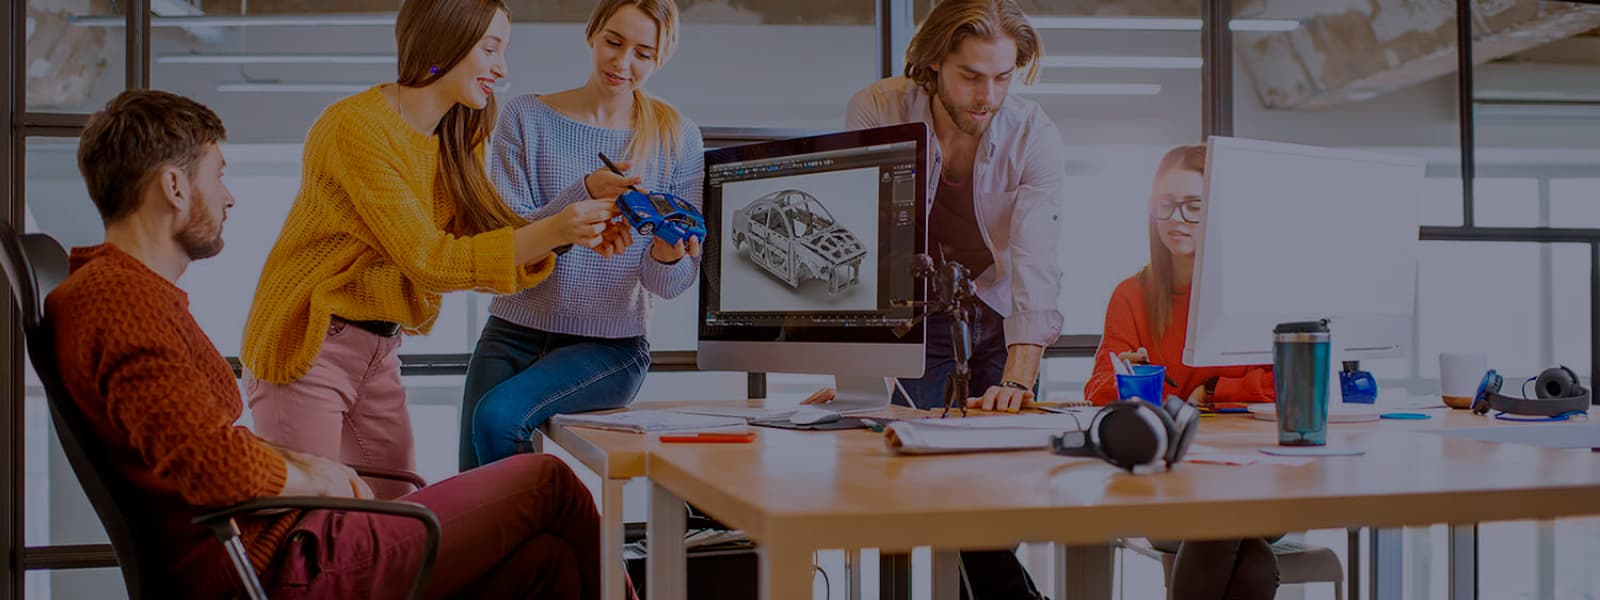
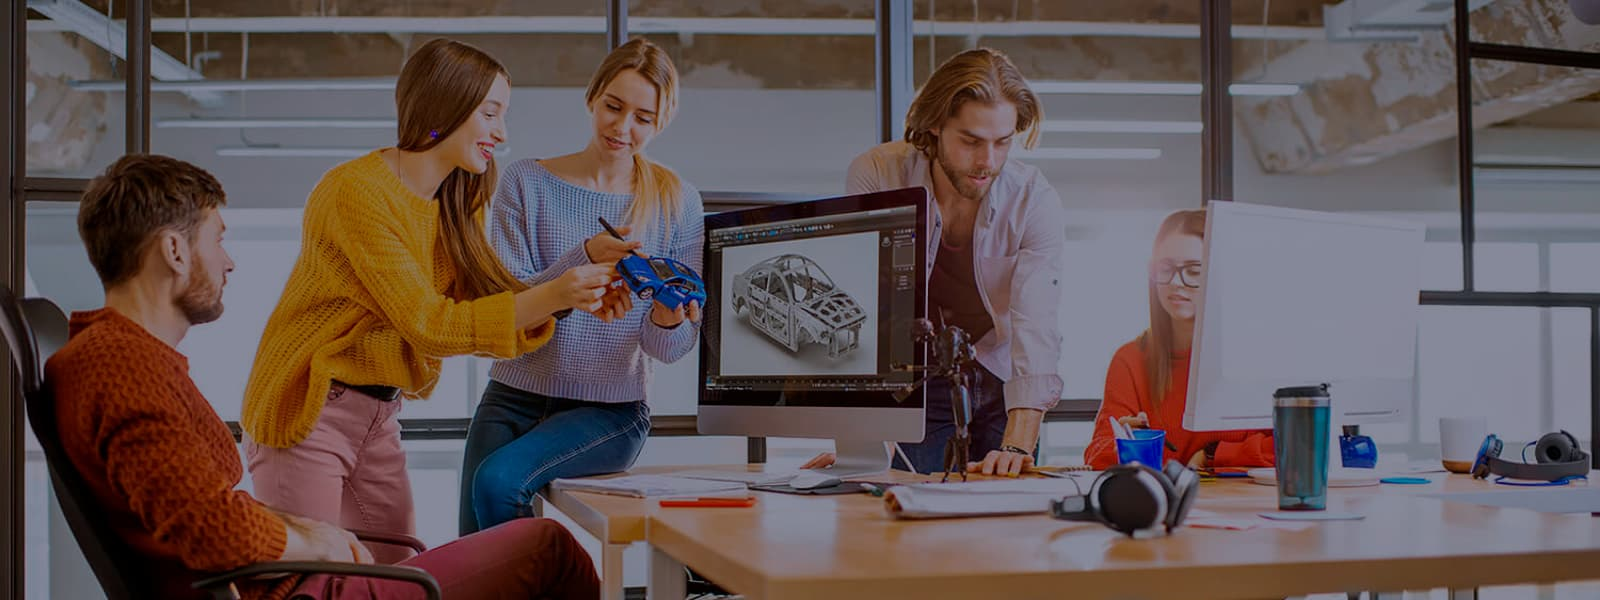
finish?

diff --git a/css/styles.css b/css/styles.css
@@ -18,6 +18,7 @@ html{
     --main-back-color: #fff;
     --main-backgraund: #F5F4FA;
     --border-link: #AFB1B8;
+    --gradient: rgba(47, 48, 58, 0.4);
     --footer-shadow: rgba(255, 255, 255, 0.6);
 }
 
@@ -110,6 +111,7 @@ p {
     padding-bottom: 32px;
 }
 
+.header-link:focus,
 .header-link:hover,
 .selected {
     color: var(--logo-leading-color);
@@ -173,6 +175,8 @@ p {
     fill: var(--logo-leading-color);
 }
 
+.header-info-tel:focus,
+.header-info-mail:focus,
 .header-info-tel:hover,
 .header-info-mail:hover {
     color: var(--logo-leading-color);
@@ -196,7 +200,7 @@ p {
     display: flex;
     justify-content: center;
     list-style-type: none;
-    margin-bottom: 34px;
+    margin-bottom: 50px;
     gap: 8px;
 }
 
@@ -212,14 +216,13 @@ p {
     text-align: center;
     letter-spacing: 0.03em;
     color: var(--header-link-color);
-    
+    cursor: pointer;
 }
 
 .port-button:hover,
 .port-button:focus {
     background-color: var(--logo-leading-color);
     color: var(--main-back-color);
-    cursor: pointer;
     box-shadow:
     0px 3px 1px rgba(0, 0, 0, 0.1),
     0px 1px 2px rgba(0, 0, 0, 0.08),
@@ -235,13 +238,15 @@ p {
 }
 
 .port-link {
+    display: inherit;
     text-decoration: none;
 }
 
-.port-list:hover {
+.port-link:hover,
+.port-link:focus {
     background: var(--main-back-color);
-    border: 1px solid #EEEEEE;
-    box-shadow: 0px 1px 1px rgba(0, 0, 0, 0.12),
+    box-shadow: 
+    0px 1px 1px rgba(0, 0, 0, 0.12),
     0px 4px 4px rgba(0, 0, 0, 0.06),
     1px 4px 6px rgba(0, 0, 0, 0.16);
 }
@@ -271,19 +276,20 @@ p {
 }
 
 .main-section-1 {
-    background: var(--background-color);
-    display: flex;
-    justify-content: center;
-    align-items: center;
-    flex-direction: column;
-    width: 1600px;
+    max-width: 1600px;
+    height: 600px;
     margin-left: auto;
     margin-right: auto;
     padding-top: 200px;
     padding-bottom: 200px;
     text-align: center;
-    background-image: url("../images/background.jpg");
-    background-color: rgba(47, 48, 58, 0.4);
+    background-color: #c4c4c4;
+    background-image: linear-gradient(
+    to bottom,
+    var(--gradient),
+    var(--gradient)),
+    url("../images/background.jpg");
+    background-size: cover;
 }
 
 .hero-title {
@@ -314,6 +320,7 @@ p {
     padding: 10px 32px;
 }
 
+.hero-button:focus,
 .hero-button:hover {
     color: var(--main-back-color);
     background: var(--button-hover);
@@ -478,7 +485,8 @@ p {
     height: 100%;
 }
 
-.foto-list:hover {
+.foto-list > a:focus,
+.foto-list > a:hover {
     border-radius: 50%;
     background-color: #2196F3;
 }
@@ -487,7 +495,8 @@ p {
     fill: var(--border-link);
 }
 
-.foto-list:hover .foto-icon{
+.foto-list > a:focus .foto-icon,
+.foto-list > a:hover .foto-icon {
     fill: var(--main-back-color);
 }
 
@@ -526,6 +535,7 @@ p {
     border-radius: 4px;
 }
 
+.client-link:focus,
 .client-link:hover {
     border-color: var(--logo-leading-color);
 }
@@ -534,6 +544,7 @@ p {
     fill: var(--border-link);
 }
 
+.client-link:focus .section-icon,
 .client-link:hover .section-icon {
     fill: var(--logo-leading-color);
 }
@@ -601,6 +612,9 @@ p {
     color: var(--footer-shadow);
 }
 
+.footer-adress:focus,
+.footer-mail:focus,
+.footer-tel:focus,
 .footer-adress:hover,
 .footer-mail:hover,
 .footer-tel:hover {
@@ -638,7 +652,8 @@ p {
     height: 100%;
 }
 
-.footer-list:hover {
+.footer-list > a:focus,
+.footer-list > a:hover {
     border-radius: 50%;
     background-color: #2196F3;
 }

diff --git a/index.html b/index.html
@@ -8,7 +8,7 @@
     <link rel="preconnect" href="https://fonts.gstatic.com" crossorigin>
     <link href="https://fonts.googleapis.com/css2?family=Raleway:wght@700&family=Roboto:wght@400;500;700;900&display=swap" rel="stylesheet">
     <link rel="stylesheet" href="https://cdnjs.cloudflare.com/ajax/libs/modern-normalize/1.1.0/modern-normalize.min.css" integrity="sha512-wpPYUAdjBVSE4KJnH1VR1HeZfpl1ub8YT/NKx4PuQ5NmX2tKuGu6U/JRp5y+Y8XG2tV+wKQpNHVUX03MfMFn9Q==" crossorigin="anonymous" referrerpolicy="no-referrer" />
-    <link href="css/styles.css" rel="stylesheet">
+    <link href="./css/styles.css" rel="stylesheet">
     <title>Студія</title>
 </head>
 <body>
@@ -110,7 +110,7 @@
                                 <p class="foto-text" lang="en">Product Designer</p>
                                 <ul class="main-foto-icon">
                                     <li class="foto-list">
-                                        <a href="https://www.instagram.com/" target="_blank">
+                                        <a  href="https://www.instagram.com/" target="_blank">
                                             <svg class="foto-icon" width="20" height="20">
                                                 <use href="./images/icons.svg#icon-instagram"></use>
                                             </svg>
